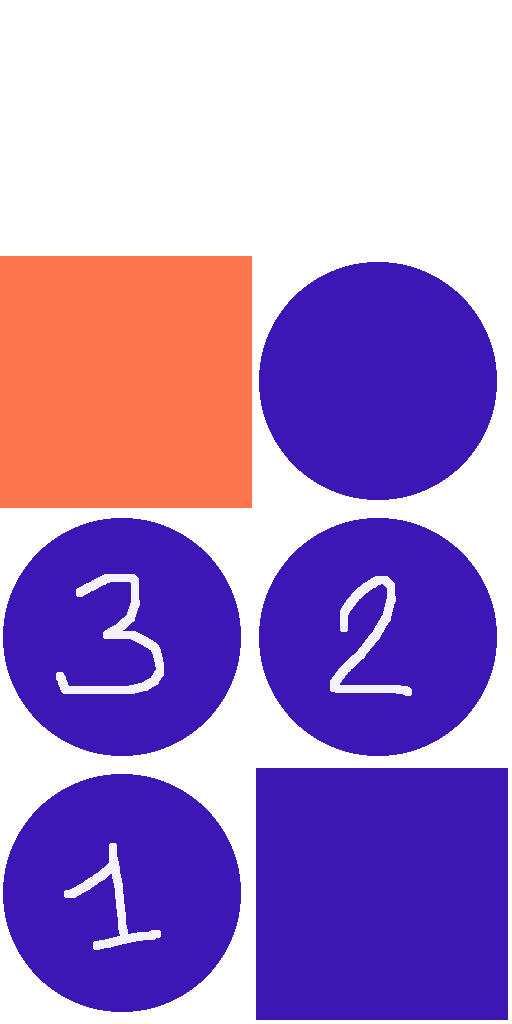
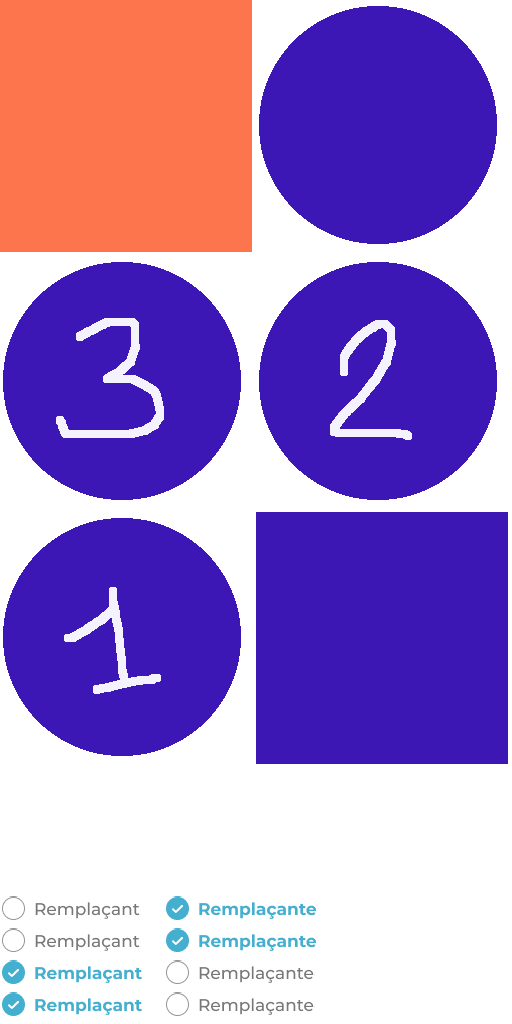
Update bulletin

diff --git a/bulletin/scripts/c3runtime.js b/bulletin/scripts/c3runtime.js
@@ -2892,7 +2892,13 @@ if(!wi||!imageInfo)return;if(lastSetCursor===imageInfo)return;lastSetCursor=imag
 		C3.Plugins.System.Acts.SnapshotCanvas,
 		C3.Plugins.System.Acts.WaitForPreviousActions,
 		C3.Plugins.Browser.Acts.InvokeDownload,
-		C3.Plugins.System.Exps.canvassnapshot
+		C3.Plugins.System.Exps.canvassnapshot,
+		C3.Plugins.Mouse.Cnds.OnObjectClicked,
+		C3.Plugins.Sprite.Cnds.IsBoolInstanceVarSet,
+		C3.Plugins.Sprite.Acts.SetAnim,
+		C3.Plugins.System.Acts.Wait,
+		C3.Plugins.Sprite.Acts.ToggleBoolInstanceVar,
+		C3.Plugins.System.Cnds.OnLayoutStart
 		];
 	};
 	self.C3_JsPropNameTable = [
@@ -2913,10 +2919,16 @@ if(!wi||!imageInfo)return;if(lastSetCursor===imageInfo)return;lastSetCursor=imag
 		{Download: 0},
 		{BV_Departementales: 0},
 		{ContentToEdit: 0},
-		{StaticText: 0},
+		{Remplante: 0},
 		{Sprite3: 0},
 		{ContentToEdit2: 0},
-		{Indication: 0}
+		{Indication: 0},
+		{genre: 0},
+		{Genre: 0},
+		{Remplante2: 0},
+		{Genre2: 0},
+		{TextInput: 0},
+		{Text: 0}
 	];
 }
 
@@ -3035,7 +3047,12 @@ if(!wi||!imageInfo)return;if(lastSetCursor===imageInfo)return;lastSetCursor=imag
 			return () => f0();
 		},
 		() => "Miniature Réseaux Sociaux",
-		() => 100
+		() => 100,
+		() => "F",
+		() => "REMPLAÇANTE",
+		() => "M",
+		() => "REMPLAÇANT",
+		() => 0.2
 	];
 }
 
